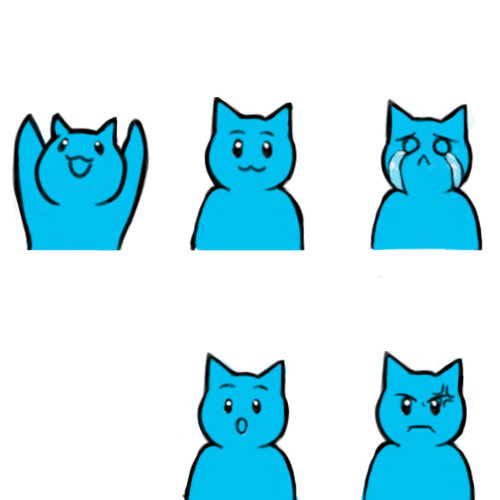
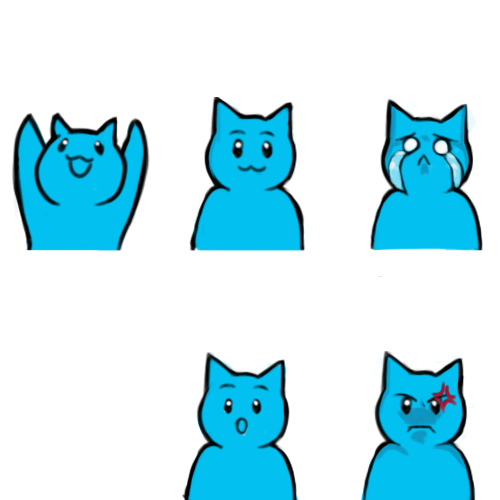
Fixed animation bug and added most animations.

diff --git a/Assets/Scripts/CustomerS/Customer.cs b/Assets/Scripts/CustomerS/Customer.cs
@@ -23,7 +23,9 @@ public sealed class Customer : Multiton<Customer>
     [SerializeField] private Sprite 
         _defaultSprite = null, 
         _waitingSprite = null, 
-        _foundSprite = null;
+        _foundSprite = null,
+        _angrySprite = null,
+        _gaspSprite = null;
 
     private SpriteRenderer _renderer = null;
 
@@ -32,6 +34,8 @@ public sealed class Customer : Multiton<Customer>
 
     private bool _waiting = false;
     private LostItem _foundItem = null;
+
+    private bool _animationLocked = false;
 
     private void Awake()
     {
@@ -91,8 +95,6 @@ public sealed class Customer : Multiton<Customer>
 
     private IEnumerator AskForMissingItem()
     {
-        _renderer.sprite = _waitingSprite;
-
         var items = LostItem.Instances;
         var wantedItems = CustomerManager.Instance.wantedItems;
 
@@ -149,6 +151,10 @@ public sealed class Customer : Multiton<Customer>
 
         while (((remaining -= Time.deltaTime) > 0 || stealing) && !_foundItem)
         {
+            // Update animation.
+            if(!_animationLocked)
+                _renderer.sprite = _waitingSprite;
+
             float lerp = 1f - remaining / duration;
             float eval = _settings.angryColorCurve.Evaluate(lerp);
 
@@ -189,8 +195,6 @@ public sealed class Customer : Multiton<Customer>
         if (!_foundItem)
             yield break;
         
-        wantedItems.Remove(_foundItem);
-
         _foundItem.enabled = false;
         _foundItem.transform.SetParent(transform);
 
@@ -234,12 +238,34 @@ public sealed class Customer : Multiton<Customer>
     {
         if (!_waiting)
             return;
+        _animationLocked = true;
 
         LostItem item = collision.gameObject.GetComponent<LostItem>();
         if (!item)
             return;
 
-        if (!item.IsSelected && (item == _wantedItem || item == _stealItem)) 
-            _foundItem = item;
+        var wanted = CustomerManager.Instance.wantedItems;
+        if (!wanted.Contains(item))
+            return;
+
+        if (item != _wantedItem)
+        {
+            _renderer.sprite = _angrySprite;
+            if(item != _stealItem)
+                return;
+        }
+        else
+            _renderer.sprite = _gaspSprite;
+
+        if (item.IsSelected)
+            return;
+
+        _foundItem = item;
+        wanted.Remove(_foundItem);
+    }
+
+    private void OnCollisionExit2D(Collision2D collision)
+    {
+        _animationLocked = false;
     }
 }
